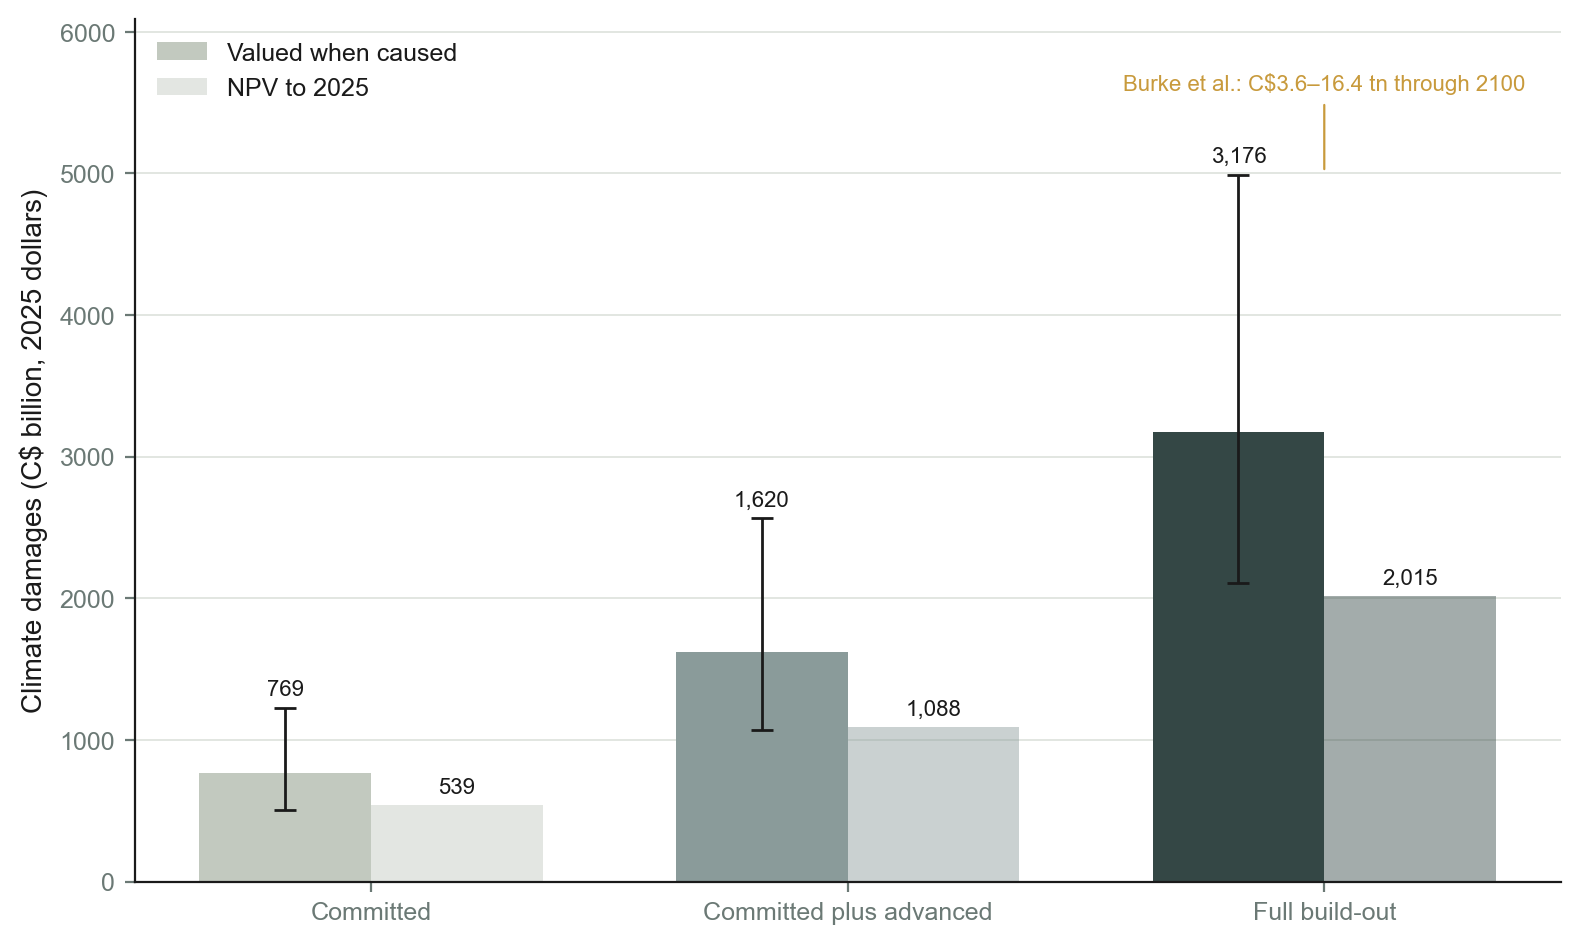
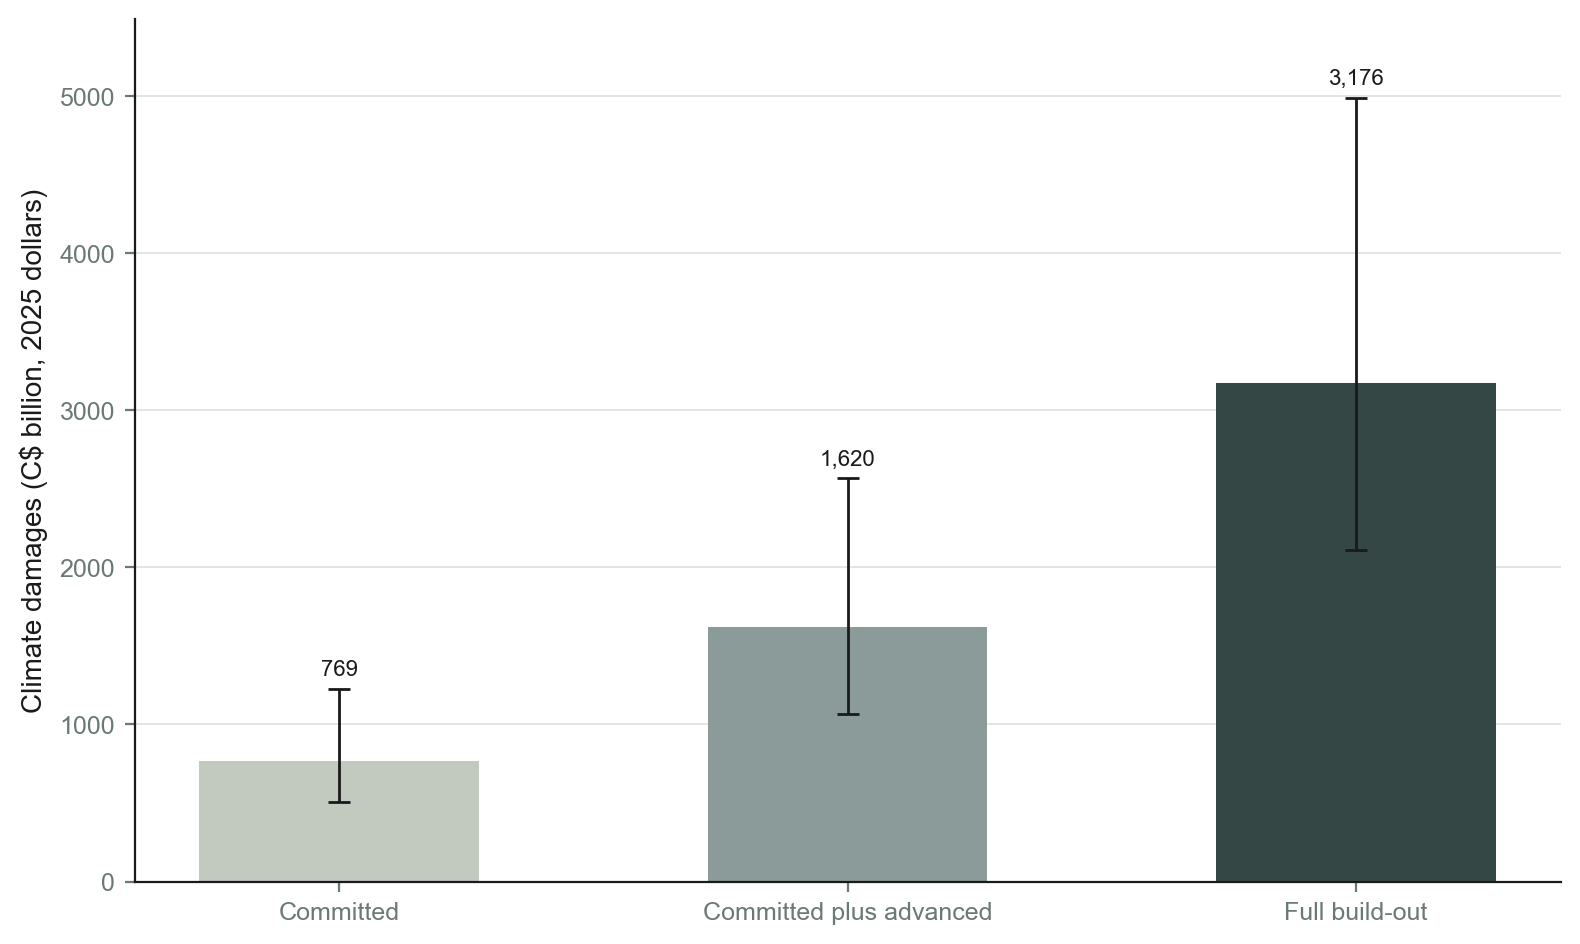
Return figure 3 to single bars: damages valued when caused with ECCC discount-rate range

diff --git a/src/loss_damage.py b/src/loss_damage.py
@@ -958,9 +958,8 @@ def fig09_build_out_damages(ld: dict, inputs: dict) -> pd.DataFrame:
 
 
 def write_ld_figure(ld: dict, inputs: dict, path: Path, csv_path: Path | None = None) -> pd.DataFrame:
-    """Grouped bars: valued-when-caused vs NPV by build-out scenario."""
+    """One bar per build-out: damages valued when caused at ECCC 2%."""
     from src.figures_report import (
-        GOLD,
         INK,
         SCENARIO_COLOR,
         _save,
@@ -973,32 +972,19 @@ def write_ld_figure(ld: dict, inputs: dict, path: Path, csv_path: Path | None = 
         csv_path.parent.mkdir(parents=True, exist_ok=True)
         df.to_csv(csv_path, index=False)
 
-    burke = ld["burke_grid"]
-    g0 = burke.loc[burke["growth_rate"] == 0.0]
-    burke_lo_tn = float(
-        g0.loc[g0["discount_rate_pct"] == 5.0, "total_cad_billion"].iloc[0]
-    ) / 1000.0
-    burke_hi_tn = float(
-        g0.loc[g0["discount_rate_pct"] == 1.5, "total_cad_billion"].iloc[0]
-    ) / 1000.0
-
     path.parent.mkdir(parents=True, exist_ok=True)
     _setup_style()
     fig, ax = plt.subplots(figsize=(9.2, 5.6))
-    x = range(len(df))
-    width = 0.36
+    x = list(range(len(df)))
+    width = 0.55
     calendar = df["valued_when_caused_2pct_cad_bn"].to_numpy()
-    npv = df["npv_2025_2pct_cad_bn"].to_numpy()
     hi = df["valued_when_caused_1_5pct_cad_bn"].to_numpy()
     lo = df["valued_when_caused_2_5pct_cad_bn"].to_numpy()
     colors = [SCENARIO_COLOR[name] for name in df["build_out"]]
-    x_cal = [i - width / 2 for i in x]
-    x_npv = [i + width / 2 for i in x]
-    ax.bar(x_cal, calendar, width, color=colors, label="Valued when caused")
-    ax.bar(x_npv, npv, width, color=colors, alpha=0.45, label="NPV to 2025")
+    ax.bar(x, calendar, width, color=colors)
     yerr = [calendar - lo, hi - calendar]
     ax.errorbar(
-        x_cal,
+        x,
         calendar,
         yerr=yerr,
         fmt="none",
@@ -1008,15 +994,15 @@ def write_ld_figure(ld: dict, inputs: dict, path: Path, csv_path: Path | None = 
         capthick=1.0,
     )
     ymax = float(hi.max())
-    ax.set_ylim(0, ymax * 1.22)
-    ax.set_xticks(list(x), list(df["build_out_label"]))
+    ax.set_ylim(0, ymax * 1.10)
+    ax.set_xticks(x, list(df["build_out_label"]))
     ax.set_ylabel("Climate damages (C$ billion, 2025 dollars)")
     # No burned-in title (removed 27 Sep 2026): the manuscript caption carries it.
     # Was: "Climate damages by build-out scenario at official carbon values"
     _ygrid(ax)
-    for i, (cal, npv_v, hi_v) in enumerate(zip(calendar, npv, hi)):
+    for i, (cal, hi_v) in enumerate(zip(calendar, hi)):
         ax.text(
-            x_cal[i],
+            x[i],
             hi_v + ymax * 0.012,
             f"{cal:,.0f}",
             ha="center",
@@ -1024,26 +1010,6 @@ def write_ld_figure(ld: dict, inputs: dict, path: Path, csv_path: Path | None = 
             fontsize=8,
             color=INK,
         )
-        ax.text(
-            x_npv[i],
-            npv_v + ymax * 0.012,
-            f"{npv_v:,.0f}",
-            ha="center",
-            va="bottom",
-            fontsize=8,
-            color=INK,
-        )
-    full_i = list(df["build_out"]).index("full")
-    ax.annotate(
-        f"Burke et al.: C${burke_lo_tn:.1f}–{burke_hi_tn:.1f} tn through 2100",
-        xy=(full_i, hi[full_i]),
-        xytext=(full_i, ymax * 1.12),
-        ha="center",
-        fontsize=8,
-        color=GOLD,
-        arrowprops=dict(arrowstyle="-", color=GOLD, lw=0.8),
-    )
-    ax.legend(frameon=False, loc="upper left")
     _save(fig, path)
     return df
 
